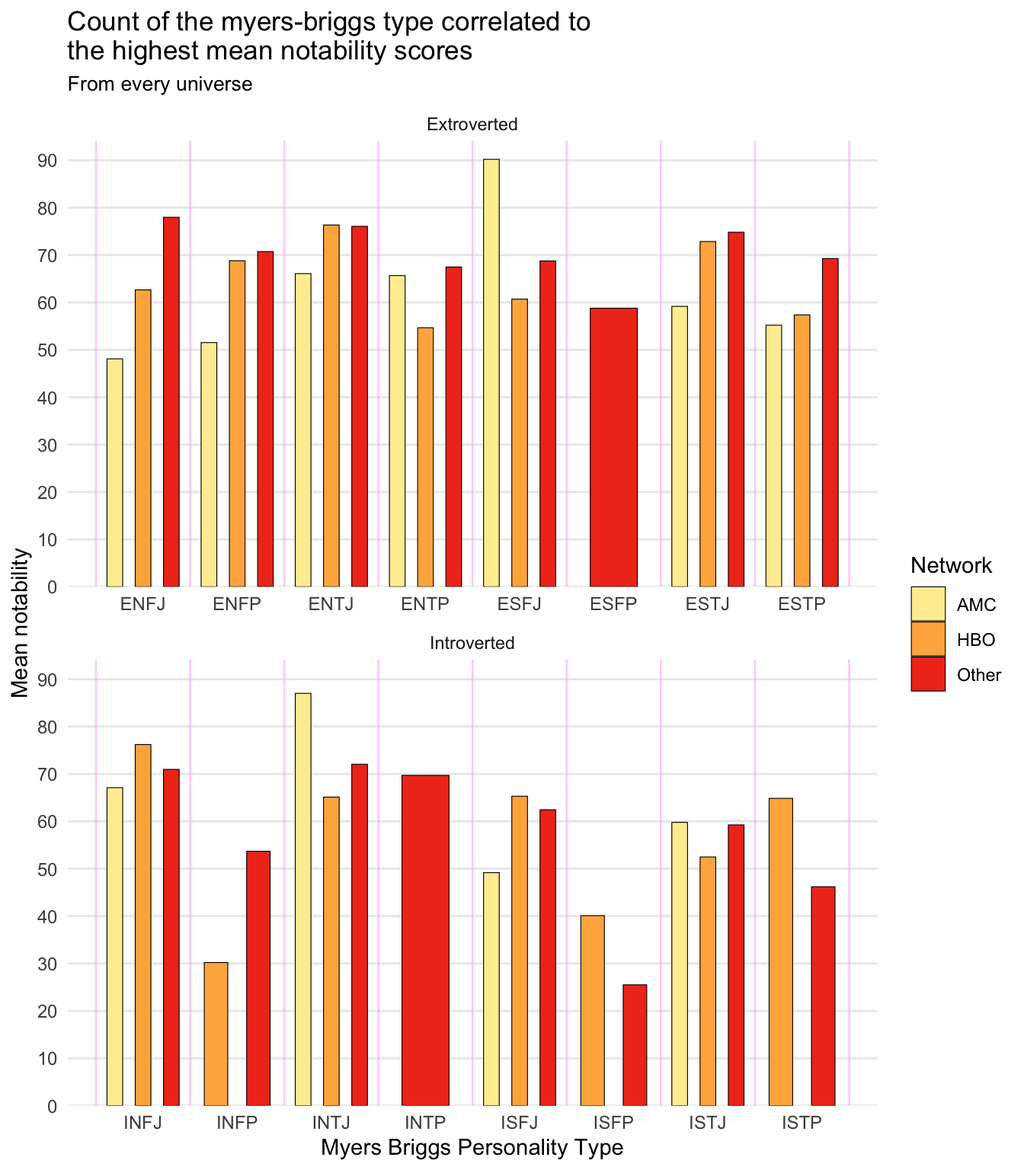
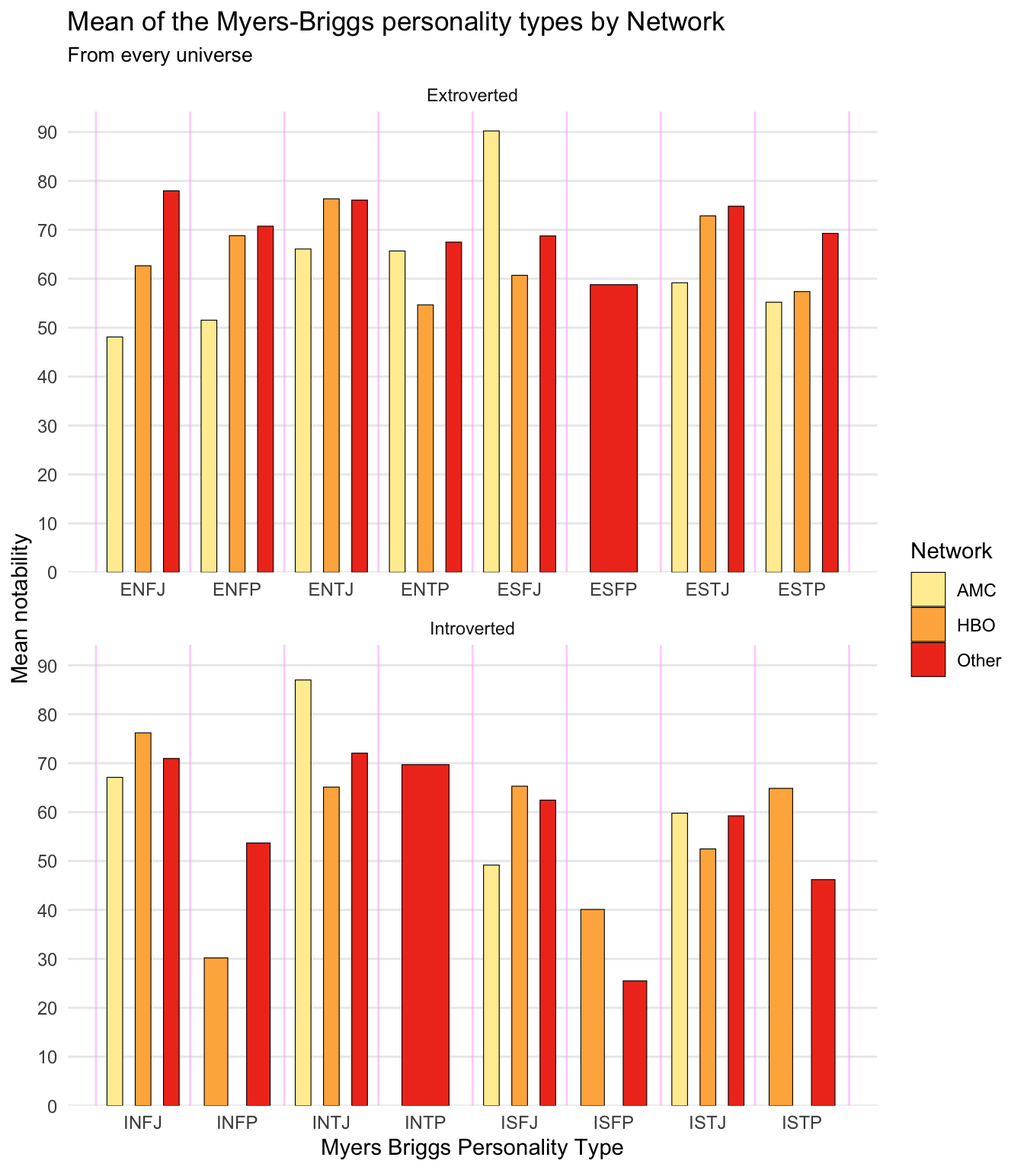
changed index to add discussion for part 1

diff --git a/_site/index.html b/_site/index.html
@@ -284,7 +284,7 @@ pre > code.sourceCode > span > a:first-child::before { text-decoration: underlin
 <span id="cb2-36"><a href="#cb2-36" aria-hidden="true" tabindex="-1"></a>  <span class="fu">arrange</span>(<span class="at">by =</span> uni_name)</span>
 <span id="cb2-37"><a href="#cb2-37" aria-hidden="true" tabindex="-1"></a></span>
 <span id="cb2-38"><a href="#cb2-38" aria-hidden="true" tabindex="-1"></a></span>
-<span id="cb2-39"><a href="#cb2-39" aria-hidden="true" tabindex="-1"></a>myersBriggsUniversePlot1 <span class="ot">&lt;-</span> <span class="fu">ggplot</span>(myers_briggs_linked[<span class="fu">starts_with</span>(LETTERS[<span class="dv">1</span><span class="sc">:</span><span class="dv">6</span>], <span class="at">vars=</span>myers_briggs_linked<span class="sc">$</span>uni_name),])<span class="sc">+</span> <span class="fu">theme_minimal</span>() <span class="sc">+</span> <span class="fu">geom_col</span>(<span class="fu">aes</span>(<span class="at">x =</span> myers_briggs, <span class="at">y =</span> notability, <span class="at">fill =</span> uni_name), <span class="at">size=</span>.<span class="dv">05</span>, <span class="at">color=</span><span class="st">"black"</span>, <span class="at">position=</span><span class="fu">position_dodge</span>()) <span class="sc">+</span> <span class="fu">theme</span>(<span class="at">axis.title.y =</span> <span class="fu">element_blank</span>(), <span class="at">axis.text =</span> <span class="fu">element_text</span>(<span class="at">size=</span><span class="dv">6</span>), <span class="at">panel.grid.minor=</span><span class="fu">element_blank</span>(), <span class="at">title =</span> <span class="fu">element_text</span>(<span class="at">size=</span><span class="dv">11</span>), <span class="at">plot.subtitle =</span> <span class="fu">element_text</span>(<span class="at">size=</span><span class="dv">10</span>), <span class="at">plot.background =</span> <span class="fu">element_rect</span>(<span class="at">color =</span> <span class="st">"white"</span>), <span class="at">legend.text =</span> <span class="fu">element_blank</span>(), <span class="at">legend.position =</span> <span class="st">"none"</span>, <span class="at">panel.spacing.x =</span> <span class="fu">unit</span>(<span class="dv">4</span>, <span class="st">"lines"</span>), <span class="at">strip.clip =</span> <span class="st">"off"</span>) <span class="sc">+</span> <span class="fu">scale_y_continuous</span>(<span class="at">breaks =</span> scales<span class="sc">::</span><span class="fu">breaks_width</span>(<span class="dv">20</span>)) <span class="sc">+</span> <span class="fu">labs</span>(<span class="at">title=</span><span class="st">"The number of characters that hold the highest correlation to a respective Myers-Briggs Personality Type: "</span>, <span class="at">subtitle=</span><span class="st">"Per universe, from universes titled A - F"</span>) <span class="sc">+</span> <span class="fu">coord_polar</span>() <span class="sc">+</span> <span class="fu">facet_wrap2</span>(<span class="fu">vars</span>(uni_name))</span>
+<span id="cb2-39"><a href="#cb2-39" aria-hidden="true" tabindex="-1"></a>myersBriggsUniversePlot1 <span class="ot">&lt;-</span> <span class="fu">ggplot</span>(myers_briggs_linked[<span class="fu">starts_with</span>(LETTERS[<span class="dv">1</span><span class="sc">:</span><span class="dv">6</span>], <span class="at">vars=</span>myers_briggs_linked<span class="sc">$</span>uni_name),])<span class="sc">+</span> <span class="fu">theme_minimal</span>() <span class="sc">+</span> <span class="fu">geom_col</span>(<span class="fu">aes</span>(<span class="at">x =</span> myers_briggs, <span class="at">y =</span> notability, <span class="at">fill =</span> uni_name), <span class="at">size=</span>.<span class="dv">05</span>, <span class="at">color=</span><span class="st">"black"</span>, <span class="at">position=</span><span class="fu">position_dodge</span>()) <span class="sc">+</span> <span class="fu">theme</span>(<span class="at">axis.title.y =</span> <span class="fu">element_blank</span>(), <span class="at">axis.text =</span> <span class="fu">element_text</span>(<span class="at">size=</span><span class="dv">6</span>), <span class="at">panel.grid.minor=</span><span class="fu">element_blank</span>(), <span class="at">title =</span> <span class="fu">element_text</span>(<span class="at">size=</span><span class="dv">11</span>), <span class="at">plot.subtitle =</span> <span class="fu">element_text</span>(<span class="at">size=</span><span class="dv">10</span>), <span class="at">plot.background =</span> <span class="fu">element_rect</span>(<span class="at">color =</span> <span class="st">"white"</span>), <span class="at">legend.text =</span> <span class="fu">element_blank</span>(), <span class="at">legend.position =</span> <span class="st">"none"</span>, <span class="at">panel.spacing.x =</span> <span class="fu">unit</span>(<span class="dv">4</span>, <span class="st">"lines"</span>), <span class="at">strip.clip =</span> <span class="st">"off"</span>) <span class="sc">+</span> <span class="fu">scale_y_continuous</span>(<span class="at">breaks =</span> scales<span class="sc">::</span><span class="fu">breaks_width</span>(<span class="dv">20</span>)) <span class="sc">+</span> <span class="fu">labs</span>(<span class="at">title=</span><span class="st">"The number of characters that hold the highest correlation to a respective Myers-Briggs Personality Type: "</span>, <span class="at">subtitle=</span><span class="st">"Per universe, from universes titled A - F"</span>, <span class="at">x =</span> <span class="st">"Myers-Briggs Personality Type"</span>) <span class="sc">+</span> <span class="fu">coord_polar</span>() <span class="sc">+</span> <span class="fu">facet_wrap2</span>(<span class="fu">vars</span>(uni_name))</span>
 <span id="cb2-40"><a href="#cb2-40" aria-hidden="true" tabindex="-1"></a></span>
 <span id="cb2-41"><a href="#cb2-41" aria-hidden="true" tabindex="-1"></a></span>
 <span id="cb2-42"><a href="#cb2-42" aria-hidden="true" tabindex="-1"></a>myersBriggsUniversePlot2 <span class="ot">&lt;-</span> <span class="fu">ggplot</span>(myers_briggs_linked[<span class="fu">starts_with</span>(LETTERS[<span class="dv">7</span><span class="sc">:</span><span class="dv">13</span>], <span class="at">vars=</span>myers_briggs_linked<span class="sc">$</span>uni_name),]) <span class="sc">+</span> <span class="fu">theme_minimal</span>()<span class="sc">+</span> <span class="fu">geom_col</span>(<span class="fu">aes</span>(<span class="at">x =</span> myers_briggs, <span class="at">y =</span> notability, <span class="at">fill =</span> uni_name), <span class="at">size=</span>.<span class="dv">05</span>, <span class="at">color=</span><span class="st">"black"</span>, <span class="at">position=</span><span class="fu">position_dodge</span>()) <span class="sc">+</span> <span class="fu">theme</span>(<span class="at">axis.title.y =</span> <span class="fu">element_blank</span>(), <span class="at">axis.text =</span> <span class="fu">element_text</span>(<span class="at">size=</span><span class="dv">6</span>), <span class="at">panel.grid.minor=</span><span class="fu">element_blank</span>(), <span class="at">title =</span> <span class="fu">element_text</span>(<span class="at">size=</span><span class="dv">11</span>), <span class="at">plot.subtitle =</span> <span class="fu">element_text</span>(<span class="at">size=</span><span class="dv">10</span>), <span class="at">plot.background =</span> <span class="fu">element_rect</span>(<span class="at">color =</span> <span class="st">"white"</span>), <span class="at">legend.text =</span> <span class="fu">element_blank</span>(), <span class="at">legend.position =</span> <span class="st">"none"</span>, <span class="at">panel.spacing.x =</span> <span class="fu">unit</span>(<span class="dv">4</span>, <span class="st">"lines"</span>), <span class="at">strip.clip =</span> <span class="st">"off"</span>) <span class="sc">+</span> <span class="fu">scale_y_continuous</span>(<span class="at">breaks =</span> scales<span class="sc">::</span><span class="fu">breaks_width</span>(<span class="dv">20</span>)) <span class="sc">+</span> <span class="fu">labs</span>(<span class="at">title=</span><span class="st">"The number of characters that hold the highest correlation to a respective Myers-Briggs Personality Type: "</span>, <span class="at">subtitle=</span><span class="st">"Per universe, from universes titled G - M"</span>) <span class="sc">+</span> <span class="fu">coord_polar</span>() <span class="sc">+</span> <span class="fu">facet_wrap2</span>(<span class="fu">vars</span>(uni_name))</span>
@@ -299,7 +299,7 @@ pre > code.sourceCode > span > a:first-child::before { text-decoration: underlin
 <span id="cb2-51"><a href="#cb2-51" aria-hidden="true" tabindex="-1"></a></span>
 <span id="cb2-52"><a href="#cb2-52" aria-hidden="true" tabindex="-1"></a></span>
 <span id="cb2-53"><a href="#cb2-53" aria-hidden="true" tabindex="-1"></a></span>
-<span id="cb2-54"><a href="#cb2-54" aria-hidden="true" tabindex="-1"></a>myersBriggsUniversePlotZoomed <span class="ot">&lt;-</span> <span class="fu">ggplot</span>(myers_briggs_linked[myers_briggs_linked<span class="sc">$</span>uni_name <span class="sc">%in%</span> <span class="fu">c</span>(<span class="st">"Brooklyn Nine-Nine"</span>, <span class="st">"Friends"</span>, <span class="st">"Game of Thrones"</span>, <span class="st">"The Walking Dead"</span>),]) <span class="sc">+</span> <span class="fu">geom_col</span>(<span class="fu">aes</span>(<span class="at">x =</span> myers_briggs, <span class="at">y =</span> notability, <span class="at">fill =</span> uni_name), <span class="at">size=</span>.<span class="dv">05</span>, <span class="at">color=</span><span class="st">"black"</span>, <span class="at">position=</span><span class="fu">position_dodge</span>()) <span class="sc">+</span> <span class="fu">theme_minimal</span>() <span class="sc">+</span> <span class="fu">theme</span>(<span class="at">axis.title.y =</span> <span class="fu">element_blank</span>(), <span class="at">axis.text =</span> <span class="fu">element_text</span>(<span class="at">size=</span><span class="dv">10</span>), <span class="at">panel.grid.minor=</span><span class="fu">element_blank</span>(), <span class="at">title =</span> <span class="fu">element_text</span>(<span class="at">size=</span><span class="dv">15</span>), <span class="at">plot.subtitle =</span> <span class="fu">element_text</span>(<span class="at">size=</span><span class="dv">10</span>), <span class="at">plot.background =</span> <span class="fu">element_rect</span>(<span class="at">color =</span> <span class="st">"white"</span>), <span class="at">legend.text =</span> <span class="fu">element_blank</span>(), <span class="at">legend.position =</span> <span class="st">"none"</span>, <span class="at">panel.spacing.x =</span> <span class="fu">unit</span>(<span class="dv">4</span>, <span class="st">"lines"</span>), <span class="at">strip.clip =</span> <span class="st">"off"</span>) <span class="sc">+</span> <span class="fu">scale_y_continuous</span>(<span class="at">breaks =</span> scales<span class="sc">::</span><span class="fu">breaks_width</span>(<span class="dv">20</span>)) <span class="sc">+</span> <span class="fu">labs</span>(<span class="at">title=</span><span class="st">"The number of characters that hold the highest correlation to a respective Myers-Briggs Personality Type: "</span>, <span class="at">subtitle=</span><span class="st">"For four universes"</span>) <span class="sc">+</span> <span class="fu">coord_polar</span>() <span class="sc">+</span> <span class="fu">facet_wrap2</span>(<span class="fu">vars</span>(uni_name)) <span class="sc">+</span> <span class="fu">scale_fill_brewer</span>(<span class="st">"PRGn"</span>)</span>
+<span id="cb2-54"><a href="#cb2-54" aria-hidden="true" tabindex="-1"></a>myersBriggsUniversePlotZoomed <span class="ot">&lt;-</span> <span class="fu">ggplot</span>(myers_briggs_linked[myers_briggs_linked<span class="sc">$</span>uni_name <span class="sc">%in%</span> <span class="fu">c</span>(<span class="st">"Brooklyn Nine-Nine"</span>, <span class="st">"Friends"</span>, <span class="st">"Game of Thrones"</span>, <span class="st">"The Walking Dead"</span>),]) <span class="sc">+</span> <span class="fu">geom_col</span>(<span class="fu">aes</span>(<span class="at">x =</span> myers_briggs, <span class="at">y =</span> notability, <span class="at">fill =</span> uni_name), <span class="at">size=</span>.<span class="dv">05</span>, <span class="at">color=</span><span class="st">"black"</span>, <span class="at">position=</span><span class="fu">position_dodge</span>()) <span class="sc">+</span> <span class="fu">theme_minimal</span>() <span class="sc">+</span> <span class="fu">theme</span>(<span class="at">axis.title.y =</span> <span class="fu">element_blank</span>(), <span class="at">axis.text =</span> <span class="fu">element_text</span>(<span class="at">size=</span><span class="dv">10</span>), <span class="at">panel.grid.minor=</span><span class="fu">element_blank</span>(), <span class="at">title =</span> <span class="fu">element_text</span>(<span class="at">size=</span><span class="dv">15</span>), <span class="at">plot.subtitle =</span> <span class="fu">element_text</span>(<span class="at">size=</span><span class="dv">10</span>), <span class="at">plot.background =</span> <span class="fu">element_rect</span>(<span class="at">color =</span> <span class="st">"white"</span>), <span class="at">legend.text =</span> <span class="fu">element_blank</span>(), <span class="at">legend.position =</span> <span class="st">"none"</span>, <span class="at">panel.spacing.x =</span> <span class="fu">unit</span>(<span class="dv">4</span>, <span class="st">"lines"</span>), <span class="at">strip.clip =</span> <span class="st">"off"</span>) <span class="sc">+</span> <span class="fu">scale_y_continuous</span>(<span class="at">breaks =</span> scales<span class="sc">::</span><span class="fu">breaks_width</span>(<span class="dv">20</span>)) <span class="sc">+</span> <span class="fu">labs</span>(<span class="at">title=</span><span class="st">"The number of characters that hold the highest correlation to</span><span class="sc">\n</span><span class="st">a respective Myers-Briggs Personality Type: "</span>, <span class="at">subtitle=</span><span class="st">"For four universes"</span>, <span class="at">x =</span> <span class="st">"Myers-Briggs Personality Type"</span>) <span class="sc">+</span> <span class="fu">coord_polar</span>() <span class="sc">+</span> <span class="fu">facet_wrap2</span>(<span class="fu">vars</span>(uni_name)) <span class="sc">+</span> <span class="fu">scale_fill_brewer</span>(<span class="st">"PRGn"</span>)</span>
 <span id="cb2-55"><a href="#cb2-55" aria-hidden="true" tabindex="-1"></a></span>
 <span id="cb2-56"><a href="#cb2-56" aria-hidden="true" tabindex="-1"></a></span>
 <span id="cb2-57"><a href="#cb2-57" aria-hidden="true" tabindex="-1"></a></span>
@@ -308,20 +308,23 @@ pre > code.sourceCode > span > a:first-child::before { text-decoration: underlin
 <span id="cb2-60"><a href="#cb2-60" aria-hidden="true" tabindex="-1"></a><span class="fu">ggsave</span>(<span class="st">"images/universePlot2.png"</span>, myersBriggsUniversePlot2, <span class="at">width =</span> <span class="dv">20</span>, <span class="at">height =</span> <span class="dv">15</span>, <span class="at">units =</span> <span class="fu">c</span>(<span class="st">"in"</span>))</span>
 <span id="cb2-61"><a href="#cb2-61" aria-hidden="true" tabindex="-1"></a><span class="fu">ggsave</span>(<span class="st">"images/universePlot3.png"</span>, myersBriggsUniversePlot3, <span class="at">width =</span> <span class="dv">20</span>, <span class="at">height =</span> <span class="dv">15</span>, <span class="at">units =</span> <span class="fu">c</span>(<span class="st">"in"</span>))</span>
 <span id="cb2-62"><a href="#cb2-62" aria-hidden="true" tabindex="-1"></a><span class="fu">ggsave</span>(<span class="st">"images/universePlot4.png"</span>, myersBriggsUniversePlot4, <span class="at">width =</span> <span class="dv">20</span>, <span class="at">height =</span> <span class="dv">15</span>, <span class="at">units =</span> <span class="fu">c</span>(<span class="st">"in"</span>))</span>
-<span id="cb2-63"><a href="#cb2-63" aria-hidden="true" tabindex="-1"></a><span class="fu">ggsave</span>(<span class="st">"images/universePlot5.png"</span>, myersBriggsUniversePlot4, <span class="at">width =</span> <span class="dv">20</span>, <span class="at">height =</span> <span class="dv">15</span>, <span class="at">units =</span> <span class="fu">c</span>(<span class="st">"in"</span>))</span>
+<span id="cb2-63"><a href="#cb2-63" aria-hidden="true" tabindex="-1"></a></span>
 <span id="cb2-64"><a href="#cb2-64" aria-hidden="true" tabindex="-1"></a></span>
 <span id="cb2-65"><a href="#cb2-65" aria-hidden="true" tabindex="-1"></a></span>
 <span id="cb2-66"><a href="#cb2-66" aria-hidden="true" tabindex="-1"></a>myersBriggsUniversePlot1</span></code><button title="Copy to Clipboard" class="code-copy-button"><i class="bi"></i></button></pre></div>
 </details>
 <div class="cell-output-display">
-<p><img src="index_files/figure-html/Question-One-A-1.png" class="img-fluid" width="1056"></p>
+<p><img src="index_files/figure-html/Question-One-A-i-1.png" class="img-fluid" width="1056"></p>
 </div>
+</div>
+<div class="cell">
 <details>
 <summary>Code</summary>
-<div class="sourceCode cell-code" id="cb3"><pre class="sourceCode r code-with-copy"><code class="sourceCode r"><span id="cb3-1"><a href="#cb3-1" aria-hidden="true" tabindex="-1"></a>myersBriggsUniversePlotZoomed</span></code><button title="Copy to Clipboard" class="code-copy-button"><i class="bi"></i></button></pre></div>
+<div class="sourceCode cell-code" id="cb3"><pre class="sourceCode r code-with-copy"><code class="sourceCode r"><span id="cb3-1"><a href="#cb3-1" aria-hidden="true" tabindex="-1"></a><span class="fu">ggsave</span>(<span class="st">"images/universePlot5.png"</span>, myersBriggsUniversePlotZoomed, <span class="at">width =</span> <span class="dv">20</span>, <span class="at">height =</span> <span class="dv">10</span>, <span class="at">units =</span> <span class="fu">c</span>(<span class="st">"in"</span>))</span>
+<span id="cb3-2"><a href="#cb3-2" aria-hidden="true" tabindex="-1"></a>myersBriggsUniversePlotZoomed</span></code><button title="Copy to Clipboard" class="code-copy-button"><i class="bi"></i></button></pre></div>
 </details>
 <div class="cell-output-display">
-<p><img src="index_files/figure-html/Question-One-A-2.png" class="img-fluid" width="1056"></p>
+<p><img src="index_files/figure-html/Question-One-A-ii-1.png" class="img-fluid" width="960"></p>
 </div>
 </div>
 <div class="cell">
@@ -333,7 +336,7 @@ pre > code.sourceCode > span > a:first-child::before { text-decoration: underlin
 <span id="cb4-4"><a href="#cb4-4" aria-hidden="true" tabindex="-1"></a>notabilityScores_TheWalkingDead</span></code><button title="Copy to Clipboard" class="code-copy-button"><i class="bi"></i></button></pre></div>
 </details>
 <div class="cell-output-display">
-<p><img src="index_files/figure-html/unnamed-chunk-2-1.png" class="img-fluid" width="672"></p>
+<p><img src="index_files/figure-html/unnamed-chunk-3-1.png" class="img-fluid" width="672"></p>
 </div>
 <details>
 <summary>Code</summary>
@@ -342,7 +345,7 @@ pre > code.sourceCode > span > a:first-child::before { text-decoration: underlin
 <span id="cb5-3"><a href="#cb5-3" aria-hidden="true" tabindex="-1"></a>notabilityMeans_TheWalkingDead</span></code><button title="Copy to Clipboard" class="code-copy-button"><i class="bi"></i></button></pre></div>
 </details>
 <div class="cell-output-display">
-<p><img src="index_files/figure-html/unnamed-chunk-2-2.png" class="img-fluid" width="672"></p>
+<p><img src="index_files/figure-html/unnamed-chunk-3-2.png" class="img-fluid" width="672"></p>
 </div>
 <details>
 <summary>Code</summary>
@@ -352,7 +355,7 @@ pre > code.sourceCode > span > a:first-child::before { text-decoration: underlin
 <span id="cb6-4"><a href="#cb6-4" aria-hidden="true" tabindex="-1"></a>notabilityScores_GameOfThrones</span></code><button title="Copy to Clipboard" class="code-copy-button"><i class="bi"></i></button></pre></div>
 </details>
 <div class="cell-output-display">
-<p><img src="index_files/figure-html/unnamed-chunk-2-3.png" class="img-fluid" width="672"></p>
+<p><img src="index_files/figure-html/unnamed-chunk-3-3.png" class="img-fluid" width="672"></p>
 </div>
 <details>
 <summary>Code</summary>
@@ -362,7 +365,7 @@ pre > code.sourceCode > span > a:first-child::before { text-decoration: underlin
 <span id="cb7-4"><a href="#cb7-4" aria-hidden="true" tabindex="-1"></a>notabilityMeans_GameOfThrones</span></code><button title="Copy to Clipboard" class="code-copy-button"><i class="bi"></i></button></pre></div>
 </details>
 <div class="cell-output-display">
-<p><img src="index_files/figure-html/unnamed-chunk-2-4.png" class="img-fluid" width="672"></p>
+<p><img src="index_files/figure-html/unnamed-chunk-3-4.png" class="img-fluid" width="672"></p>
 </div>
 <details>
 <summary>Code</summary>
@@ -416,7 +419,7 @@ pre > code.sourceCode > span > a:first-child::before { text-decoration: underlin
 <span id="cb9-39"><a href="#cb9-39" aria-hidden="true" tabindex="-1"></a></span>
 <span id="cb9-40"><a href="#cb9-40" aria-hidden="true" tabindex="-1"></a></span>
 <span id="cb9-41"><a href="#cb9-41" aria-hidden="true" tabindex="-1"></a></span>
-<span id="cb9-42"><a href="#cb9-42" aria-hidden="true" tabindex="-1"></a>perNetwork_MeanNotability <span class="ot">&lt;-</span> <span class="fu">ggplot</span>(myers_briggs_grouped_notability) <span class="sc">+</span> <span class="fu">geom_bar</span>(<span class="fu">aes</span>(<span class="at">x =</span> myers_briggs, <span class="at">fill =</span> Network, <span class="at">y =</span> notability), <span class="at">stat=</span><span class="st">"summary"</span>, <span class="at">fun =</span> <span class="st">"mean"</span>, <span class="at">position =</span> <span class="fu">position_dodge</span>(.<span class="dv">9</span>), <span class="at">width =</span> .<span class="dv">5</span>, <span class="at">colour=</span><span class="st">"black"</span>, <span class="at">size =</span> <span class="fl">0.2</span>) <span class="sc">+</span> <span class="fu">theme_minimal</span>() <span class="sc">+</span> <span class="fu">theme</span>(<span class="at">plot.background =</span> <span class="fu">element_rect</span>(<span class="at">color =</span> <span class="st">"white"</span>), <span class="at">panel.grid.minor.y=</span><span class="fu">element_blank</span>(), <span class="at">title =</span> <span class="fu">element_text</span>(<span class="at">size=</span><span class="dv">11</span>), <span class="at">plot.subtitle =</span> <span class="fu">element_text</span>(<span class="at">size=</span><span class="dv">10</span>), <span class="at">axis.text =</span> <span class="fu">element_text</span>(<span class="at">size=</span><span class="dv">9</span>), <span class="at">panel.grid.major.x =</span> <span class="fu">element_blank</span>(), ) <span class="sc">+</span> <span class="fu">scale_y_continuous</span>(<span class="at">breaks =</span> scales<span class="sc">::</span><span class="fu">breaks_width</span>(<span class="dv">10</span>), <span class="at">expand =</span> <span class="fu">expand_scale</span>(<span class="fu">c</span>(<span class="dv">0</span>,<span class="dv">0</span>), <span class="fu">c</span>(<span class="dv">0</span>,<span class="dv">4</span>))) <span class="sc">+</span> <span class="fu">labs</span>(<span class="at">title=</span><span class="st">"Count of the myers-briggs type correlated to</span><span class="sc">\n</span><span class="st">the highest mean notability scores"</span>, <span class="at">subtitle=</span><span class="st">"From every universe"</span>, <span class="at">x =</span> <span class="st">"Myers Briggs Personality Type"</span>, <span class="at">y =</span> <span class="st">"Mean notability"</span>) <span class="sc">+</span> <span class="fu">facet_wrap2</span>(<span class="fu">vars</span>(socialisation), <span class="at">scales =</span> <span class="st">"free_x"</span>, <span class="at">nrow =</span> <span class="dv">2</span>) <span class="sc">+</span> <span class="fu">scale_fill_brewer</span>(<span class="at">palette =</span> <span class="st">"YlOrRd"</span>) <span class="sc">+</span> <span class="fu">scale_x_discrete</span>(<span class="at">expand=</span>(<span class="fu">c</span>(.<span class="dv">1</span>,.<span class="dv">1</span>))) <span class="sc">+</span> <span class="fu">geom_vline</span>(<span class="at">xintercept=</span><span class="fu">seq</span>(<span class="fl">0.5</span>,<span class="fu">after_stat</span>(<span class="fu">nrow</span>(myers_briggs)),<span class="dv">1</span>),<span class="at">color=</span><span class="st">"#FFAAFF"</span>, <span class="at">alpha =</span> .<span class="dv">5</span>) </span>
+<span id="cb9-42"><a href="#cb9-42" aria-hidden="true" tabindex="-1"></a>perNetwork_MeanNotability <span class="ot">&lt;-</span> <span class="fu">ggplot</span>(myers_briggs_grouped_notability) <span class="sc">+</span> <span class="fu">geom_bar</span>(<span class="fu">aes</span>(<span class="at">x =</span> myers_briggs, <span class="at">fill =</span> Network, <span class="at">y =</span> notability), <span class="at">stat=</span><span class="st">"summary"</span>, <span class="at">fun =</span> <span class="st">"mean"</span>, <span class="at">position =</span> <span class="fu">position_dodge</span>(.<span class="dv">9</span>), <span class="at">width =</span> .<span class="dv">5</span>, <span class="at">colour=</span><span class="st">"black"</span>, <span class="at">size =</span> <span class="fl">0.2</span>) <span class="sc">+</span> <span class="fu">theme_minimal</span>() <span class="sc">+</span> <span class="fu">theme</span>(<span class="at">plot.background =</span> <span class="fu">element_rect</span>(<span class="at">color =</span> <span class="st">"white"</span>), <span class="at">panel.grid.minor.y=</span><span class="fu">element_blank</span>(), <span class="at">title =</span> <span class="fu">element_text</span>(<span class="at">size=</span><span class="dv">11</span>), <span class="at">plot.subtitle =</span> <span class="fu">element_text</span>(<span class="at">size=</span><span class="dv">10</span>), <span class="at">axis.text =</span> <span class="fu">element_text</span>(<span class="at">size=</span><span class="dv">9</span>), <span class="at">panel.grid.major.x =</span> <span class="fu">element_blank</span>(), ) <span class="sc">+</span> <span class="fu">scale_y_continuous</span>(<span class="at">breaks =</span> scales<span class="sc">::</span><span class="fu">breaks_width</span>(<span class="dv">10</span>), <span class="at">expand =</span> <span class="fu">expand_scale</span>(<span class="fu">c</span>(<span class="dv">0</span>,<span class="dv">0</span>), <span class="fu">c</span>(<span class="dv">0</span>,<span class="dv">4</span>))) <span class="sc">+</span> <span class="fu">labs</span>(<span class="at">title=</span><span class="st">"Mean of the Myers-Briggs personality types by Network"</span>, <span class="at">subtitle=</span><span class="st">"From every universe"</span>, <span class="at">x =</span> <span class="st">"Myers Briggs Personality Type"</span>, <span class="at">y =</span> <span class="st">"Mean notability"</span>) <span class="sc">+</span> <span class="fu">facet_wrap2</span>(<span class="fu">vars</span>(socialisation), <span class="at">scales =</span> <span class="st">"free_x"</span>, <span class="at">nrow =</span> <span class="dv">2</span>) <span class="sc">+</span> <span class="fu">scale_fill_brewer</span>(<span class="at">palette =</span> <span class="st">"YlOrRd"</span>) <span class="sc">+</span> <span class="fu">scale_x_discrete</span>(<span class="at">expand=</span>(<span class="fu">c</span>(.<span class="dv">1</span>,.<span class="dv">1</span>))) <span class="sc">+</span> <span class="fu">geom_vline</span>(<span class="at">xintercept=</span><span class="fu">seq</span>(<span class="fl">0.5</span>,<span class="fu">after_stat</span>(<span class="fu">nrow</span>(myers_briggs)),<span class="dv">1</span>),<span class="at">color=</span><span class="st">"#FFAAFF"</span>, <span class="at">alpha =</span> .<span class="dv">5</span>) </span>
 <span id="cb9-43"><a href="#cb9-43" aria-hidden="true" tabindex="-1"></a></span>
 <span id="cb9-44"><a href="#cb9-44" aria-hidden="true" tabindex="-1"></a>perNetwork_MeanNotability </span></code><button title="Copy to Clipboard" class="code-copy-button"><i class="bi"></i></button></pre></div>
 </details>
@@ -428,6 +431,15 @@ pre > code.sourceCode > span > a:first-child::before { text-decoration: underlin
 <div class="sourceCode cell-code" id="cb10"><pre class="sourceCode r code-with-copy"><code class="sourceCode r"><span id="cb10-1"><a href="#cb10-1" aria-hidden="true" tabindex="-1"></a><span class="fu">ggsave</span>(<span class="st">"images/perNetwork_MeanNotability.png"</span>, perNetwork_MeanNotability, <span class="at">width =</span> <span class="dv">8</span>, <span class="at">height =</span> <span class="dv">7</span>, <span class="at">units =</span> <span class="fu">c</span>(<span class="st">"in"</span>)) <span class="co">#</span><span class="re">END</span></span></code><button title="Copy to Clipboard" class="code-copy-button"><i class="bi"></i></button></pre></div>
 </details>
 </div>
+<p>A multiplicity of insights can be garnered from the multitude of graphs displayed while evaluating the myer-briggs personality types of various characters across media. To begin, a wide variation exists between almost every television show and film included within the data, showcasing that some universes hold more introverted characters, some more judging, some more perceptive and so on. While the data is far from exhaustive of all popular television, these insights did allow for further srutiny and comparison - such as recognising that Game of Thrones actually contains a large number of introverted characters, potentially attributed to its setting in the medieval period.</p>
+<p>Similarly, a closer inspection of The Walking Dead and Game of Thrones yielded interesting results. Based on the percentage match scores, which determine how close a character fitted their predominant personality type, it can be discerned that no one character held a strong enough percentage match average to declare that they held one, strict personality type: although some were close (above 70% percentage match average). In continuation, the mean notability scores yielded knowledge on which personalities resonated more with audiences in certain settings. The Walking Dead’s dystopian society may have had an impact on the popularity of ESFJ, ESTJ and INTJ types:</p>
+<ul>
+<li>ESFJ or Consuls, who are extremely social, generous and reliable</li>
+<li>ESTJ or Executives, who are diplomatic in nature and are diligent and efficient</li>
+<li>INTJ or Architects, who are complicated, introverts with high intellects that are straight-forward and rationale</li>
+</ul>
+<p>On the other hand, Game of Thrones’ characterisations have yet to reveal drastic differences between character notability. This may reveal hidden factors that affect an audience’s perception of characters and thus, their perceived noteworthiness.</p>
+<p>Finally, the</p>
 <div class="cell">
 <details>
 <summary>Code</summary>

diff --git a/_site/presentation.html b/_site/presentation.html
@@ -379,7 +379,7 @@ Team Byte Coders- Mobolaji Adewale, Srinivasan Poonkundran, Tanya Evita George, 
 <div id="tabset-1-1">
 <div class="quarto-figure quarto-figure-center">
 <figure>
-<p><img data-src="images/universePlot.png" width="500"></p>
+<p><img data-src="images/universePlot.png" width="660"></p>
 <figcaption>The number of characters that hold the highest correlation to a respective Myers-Briggs personality type:</figcaption>
 </figure>
 </div>
@@ -387,7 +387,7 @@ Team Byte Coders- Mobolaji Adewale, Srinivasan Poonkundran, Tanya Evita George, 
 <div id="tabset-1-2">
 <div class="quarto-figure quarto-figure-center">
 <figure>
-<p><img data-src="images/universePlot5.png" width="500"></p>
+<p><img data-src="images/universePlot5.png" width="750"></p>
 <figcaption>The number of characters that hold that highest correlation to a Myers-Briggs type:</figcaption>
 </figure>
 </div>
@@ -554,7 +554,11 @@ Team Byte Coders- Mobolaji Adewale, Srinivasan Poonkundran, Tanya Evita George, 
 <section>
 <section id="conclusion" class="title-slide slide level1 center">
 <h1>Conclusion</h1>
-
+<ul>
+<li>Different universes have different Myers-Briggs distributions, which could be influenced by different genres.</li>
+<li>There was no discernible relationship between average rating and personality groups.</li>
+<li>There is little variation in character notability scores according to personality traits.</li>
+</ul>
 </section>
 <section id="section-2" class="slide level2">
 <h2>#</h2>
